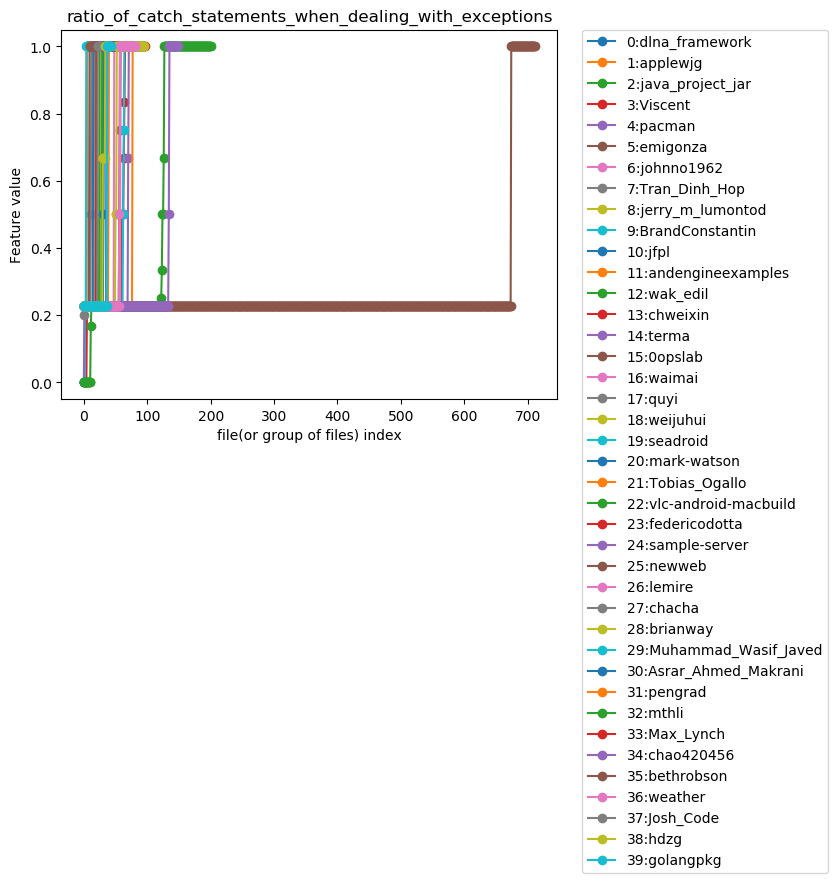
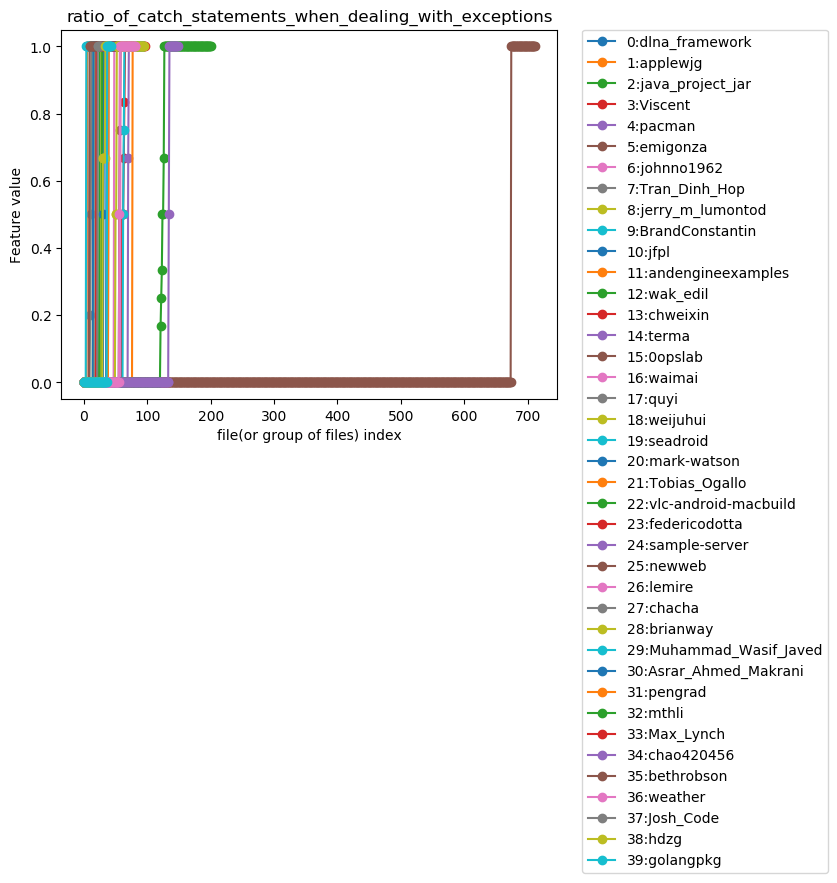
a / 0 = 0 is worse. 71% acc.

Changed region(s): [[0.0932, 0.2752, 0.6213, 0.4587]]

diff --git a/psob_authorship/features/utils.py b/psob_authorship/features/utils.py
@@ -4,6 +4,8 @@ import os
 
 from typing import Tuple
 
+ZERO_DIVISION_RETURN = -1.0
+
 
 def get_log_filepath(log_filename: str) -> str:
     log_root = "../logs"
@@ -39,21 +41,21 @@ def get_absfilepaths(file_or_dir):
 
 
 def divide_percentage_with_handling_zero_division(numerator, denominator, logger: logging.Logger,
-                                                  log_information, zero_division_return=-1.0):
+                                                  log_information, zero_division_return=ZERO_DIVISION_RETURN):
     result = divide_with_handling_zero_division(numerator, denominator, logger,
                                                 log_information, (0, 1), zero_division_return)
     return zero_division_return if result == zero_division_return else result * 100
 
 
 def divide_ratio_with_handling_zero_division(numerator, denominator, logger: logging.Logger,
-                                             log_information, zero_division_return=-1.0):
+                                             log_information, zero_division_return=ZERO_DIVISION_RETURN):
     return divide_with_handling_zero_division(numerator, denominator, logger,
                                               log_information, (0, 1), zero_division_return)
 
 
 def divide_nonnegative_with_handling_zero_division(numerator, denominator, logger: logging.Logger,
                                                    log_information, take_log10=False, log_from_zero=-100.0,
-                                                   zero_division_return=-1.0):
+                                                   zero_division_return=ZERO_DIVISION_RETURN):
     result = divide_with_handling_zero_division(numerator, denominator, logger,
                                                 log_information, (0, float("inf")), zero_division_return)
     if result == zero_division_return:
@@ -64,7 +66,7 @@ def divide_nonnegative_with_handling_zero_division(numerator, denominator, logge
 
 
 def divide_with_handling_zero_division(numerator, denominator, logger: logging.Logger, log_information,
-                                       expected_bounds: Tuple[float, float], zero_division_return=-1.0):
+                                       expected_bounds: Tuple[float, float], zero_division_return=ZERO_DIVISION_RETURN):
     if denominator == 0:
         logger.warning("SUSPICIOUS ZERO DIVISION: " + log_information)
         return zero_division_return

diff --git a/psob_authorship/features/extract_features.py b/psob_authorship/features/extract_features.py
@@ -7,7 +7,7 @@ import torch
 from tqdm import tqdm
 
 from psob_authorship.features.java.MetricsCalculator import MetricsCalculator
-from psob_authorship.features.utils import chunks
+from psob_authorship.features.utils import chunks, ZERO_DIVISION_RETURN
 
 CALCULATED_FEATURES_ROOT = "../calculated_features/"
 N = 60
@@ -61,12 +61,26 @@ def extract_for_each_file():
     save_extracted_features(filepath, features, labels, feature_names, author_names)
 
 
-def extract_with_mean_values_for_each_file():
-    fileprefix = "extracted_for_each_file"
+def extract_with_transformation(fileprefix, transformation):
     filepath = os.path.join(CALCULATED_FEATURES_ROOT, fileprefix)
     features, labels, feature_names, author_names = get_labeled_data()
-    MetricsCalculator.transform_metrics_default_values_to_mean(-1, features)
+    transformation(ZERO_DIVISION_RETURN, features)
     save_extracted_features(filepath, features, labels, feature_names, author_names)
+
+
+def extract_with_mean_default_values_for_each_file():
+    extract_with_transformation("extracted_for_each_file",
+                                MetricsCalculator.transform_metrics_default_values_to_mean)
+
+
+def extract_with_zero_default_values_for_each_file():
+    extract_with_transformation("extracted_for_each_file",
+                                MetricsCalculator.transform_metrics_default_values_to_zero)
+
+
+def extract_with_one_default_values_for_each_file():
+    extract_with_transformation("extracted_for_each_file",
+                                MetricsCalculator.transform_metrics_default_values_to_one)
 
 
 def save_extracted_features(filepath: str, features: torch.Tensor, labels: torch.Tensor,
@@ -83,4 +97,4 @@ def save_extracted_features(filepath: str, features: torch.Tensor, labels: torch
 
 
 if __name__ == '__main__':
-    extract_with_mean_values_for_each_file()
+    extract_with_zero_default_values_for_each_file()

diff --git a/psob_authorship/features/java/MetricsCalculator.py b/psob_authorship/features/java/MetricsCalculator.py
@@ -42,3 +42,16 @@ class MetricsCalculator:
             for col in range(features.shape[1]):
                 if default_value_indices[row][col] == 1:
                     features[row][col] = mean_values[col]
+
+    @staticmethod
+    def transform_metrics_default_values_to_new_value(default_value, new_value, features: torch.Tensor):
+        default_value_indices = features == default_value
+        features[default_value_indices] = new_value
+
+    @staticmethod
+    def transform_metrics_default_values_to_zero(default_value, features: torch.Tensor):
+        MetricsCalculator.transform_metrics_default_values_to_new_value(default_value, 0, features)
+
+    @staticmethod
+    def transform_metrics_default_values_to_one(default_value, features: torch.Tensor):
+        MetricsCalculator.transform_metrics_default_values_to_new_value(default_value, 1, features)

diff --git a/psob_authorship/experiment/one_split_fit.py b/psob_authorship/experiment/one_split_fit.py
@@ -13,7 +13,7 @@ from psob_authorship.model.Model import Model
 
 CONFIG = {
     'experiment_name': os.path.basename(__file__).split('.')[0],
-    'experiment_notes': "change: early stopping from 350 to 700",
+    'experiment_notes': "change: a / 0 = 0",
     'number_of_authors': 40,
     'labels_features_common_name': "../calculated_features/extracted_for_each_file",
     'metrics': [0, 1, 2, 3, 4, 5, 6, 7, 8, 9, 10, 11, 12, 13, 14, 15, 16, 17, 18],
